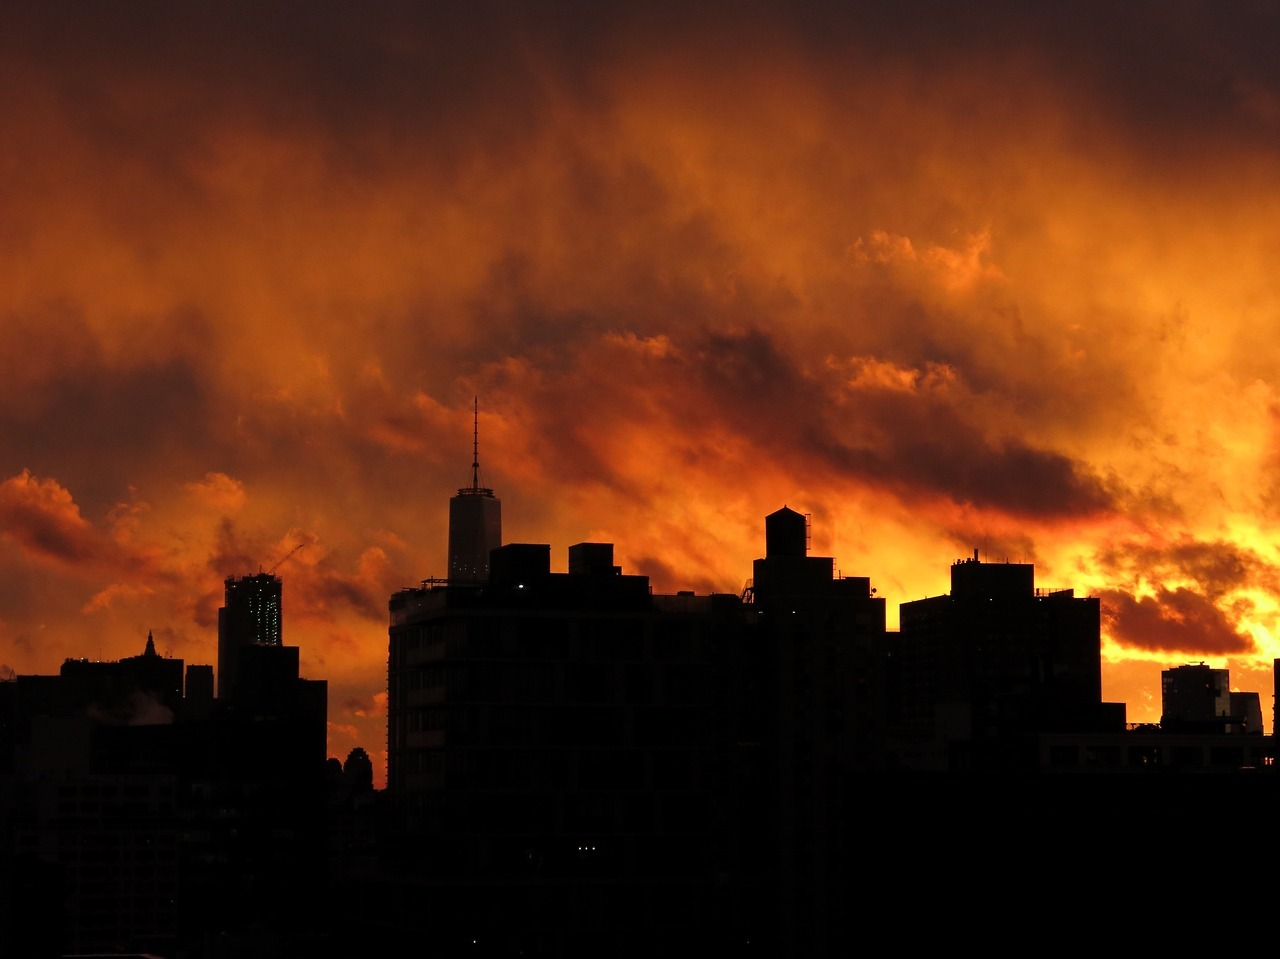
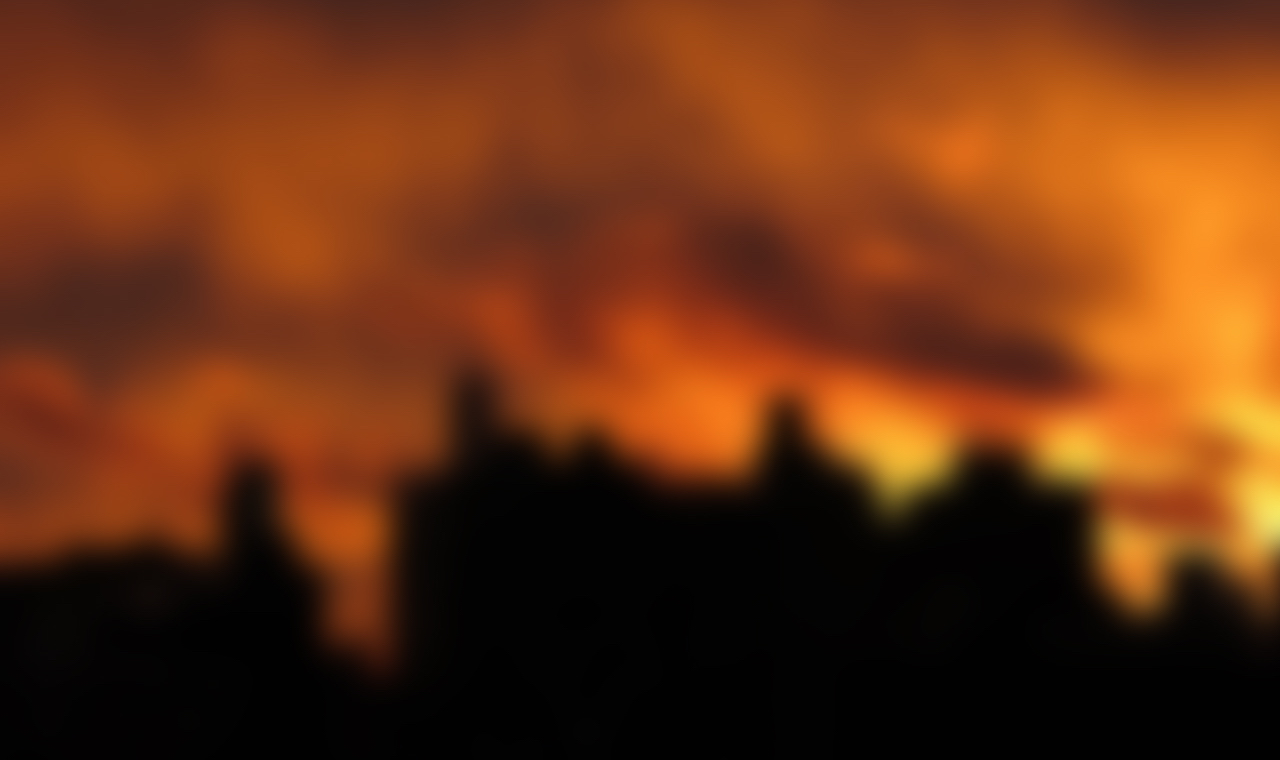
Updated image.

diff --git a/style.css b/style.css
@@ -34,19 +34,12 @@ nav {
 }
 
 nav a {
-    /*color: #000;
-    background-color: rgba(255, 255, 255, 0.7);;
-    padding-top: 0.15rem;
-    padding-bottom: 0.1rem;
-    padding-left: 0.6rem;
-    padding-right: 0.6rem;
     border-radius: 1rem;*/
     color: #fff;
     text-decoration: none;
 }
 
 nav a:hover {
-   /*background-color: rgba(200, 200, 200, 0.7);*/
    color: #ccc;
 }
 
@@ -59,8 +52,6 @@ nav a:hover {
     background-size: cover;
     background-image: url('sunset.jpg');
     z-index: -1;
-    -webkit-filter: blur(1rem);
-    filter: blur(1rem);
 }
 
 @media only screen and (max-width: 800px) {
